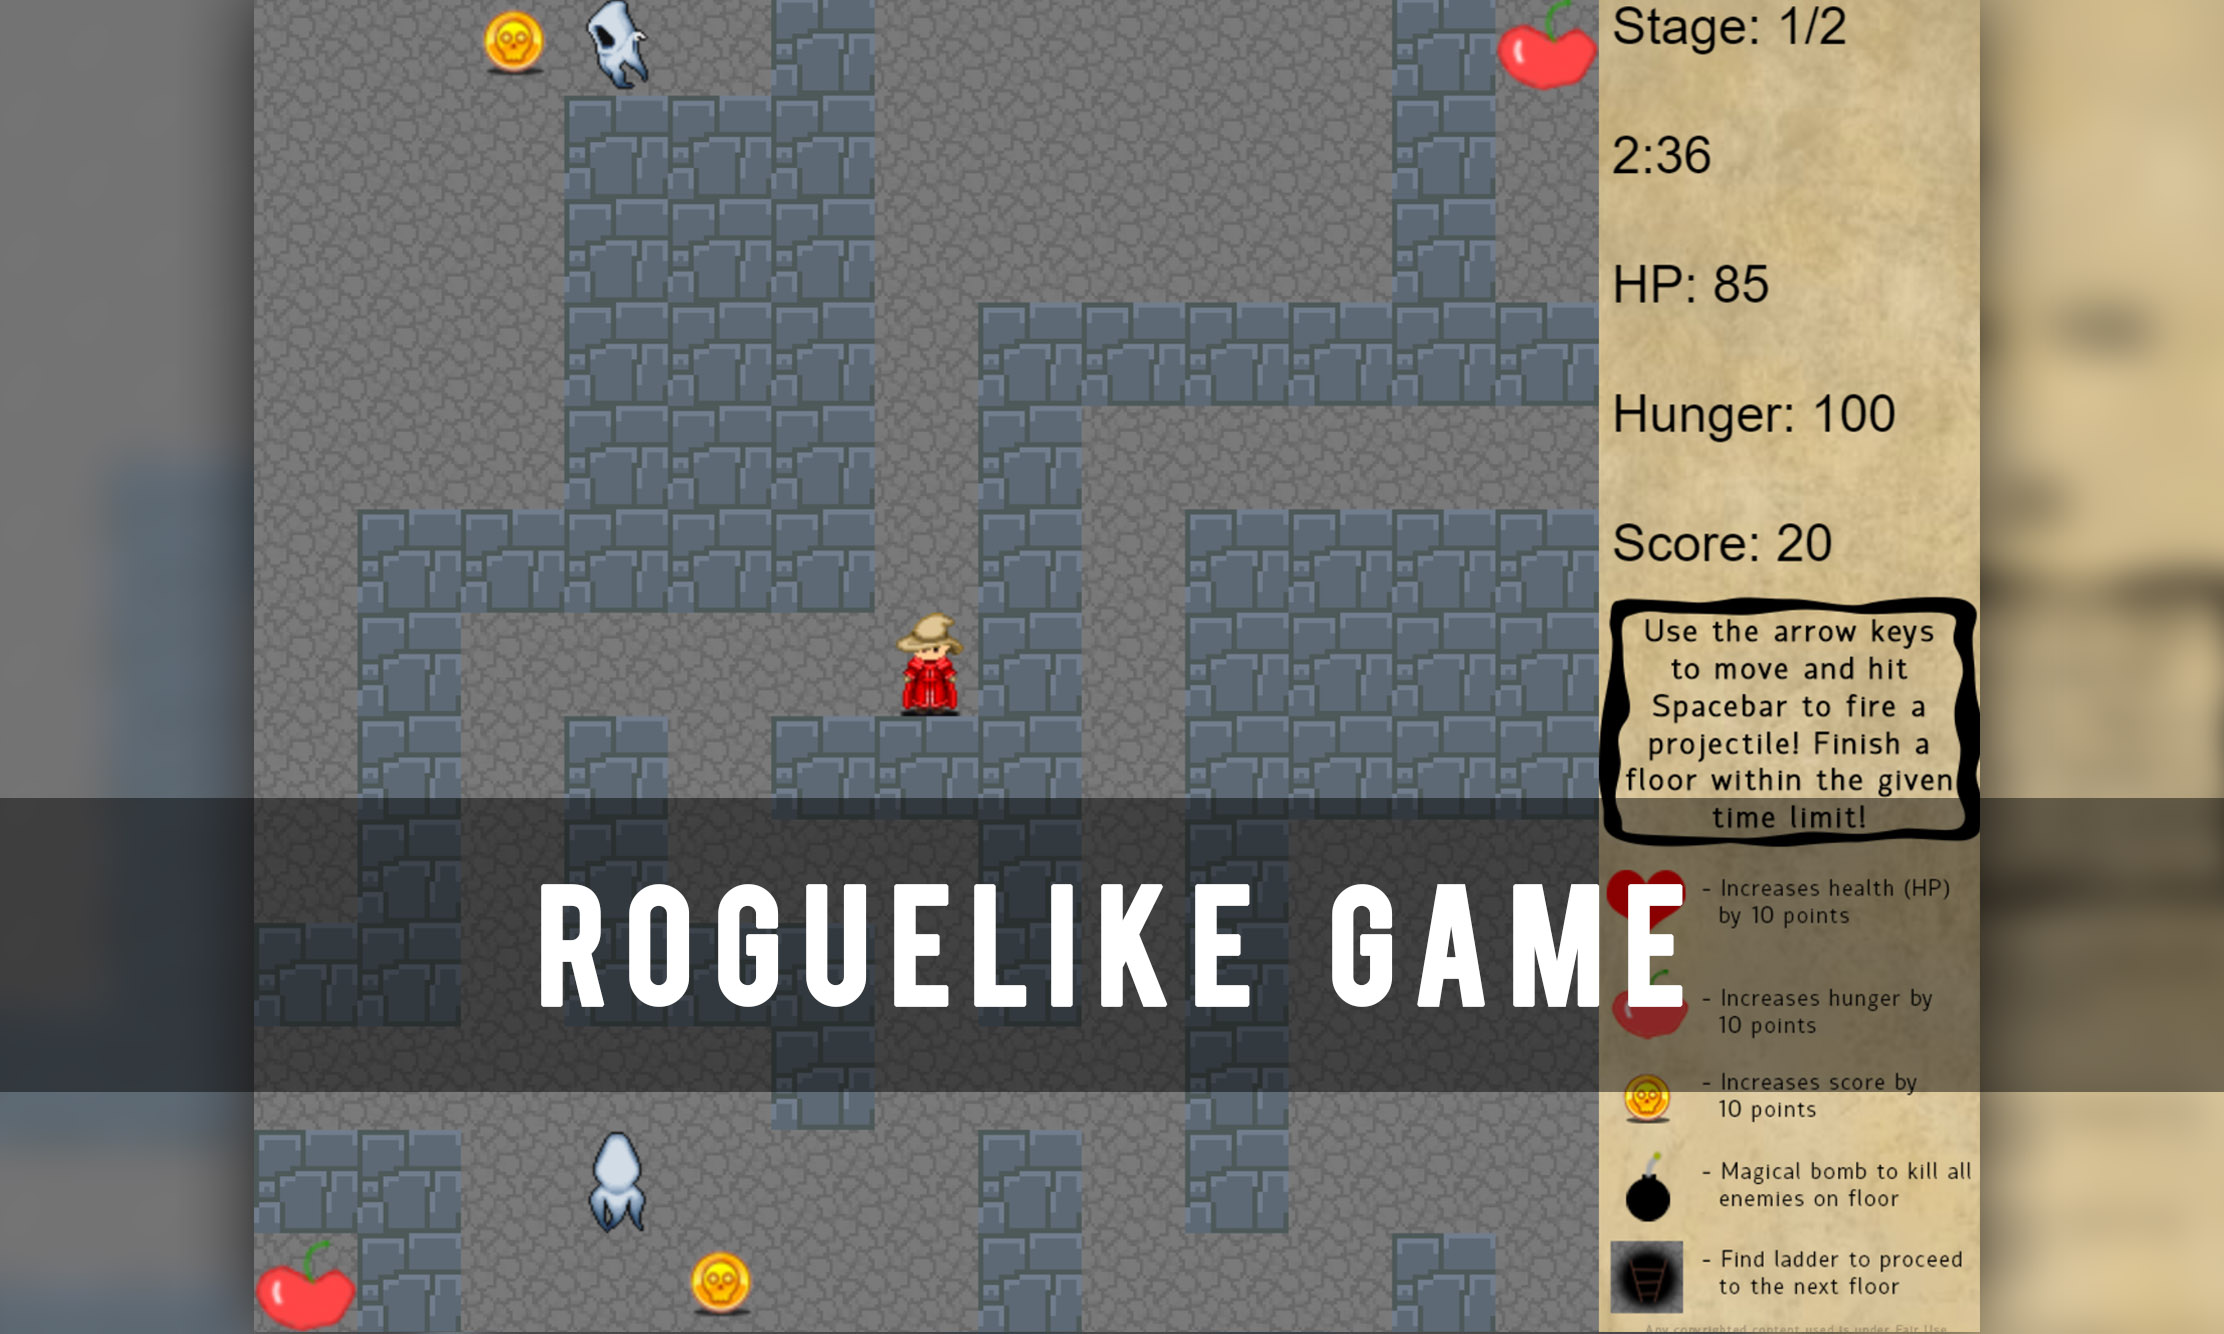
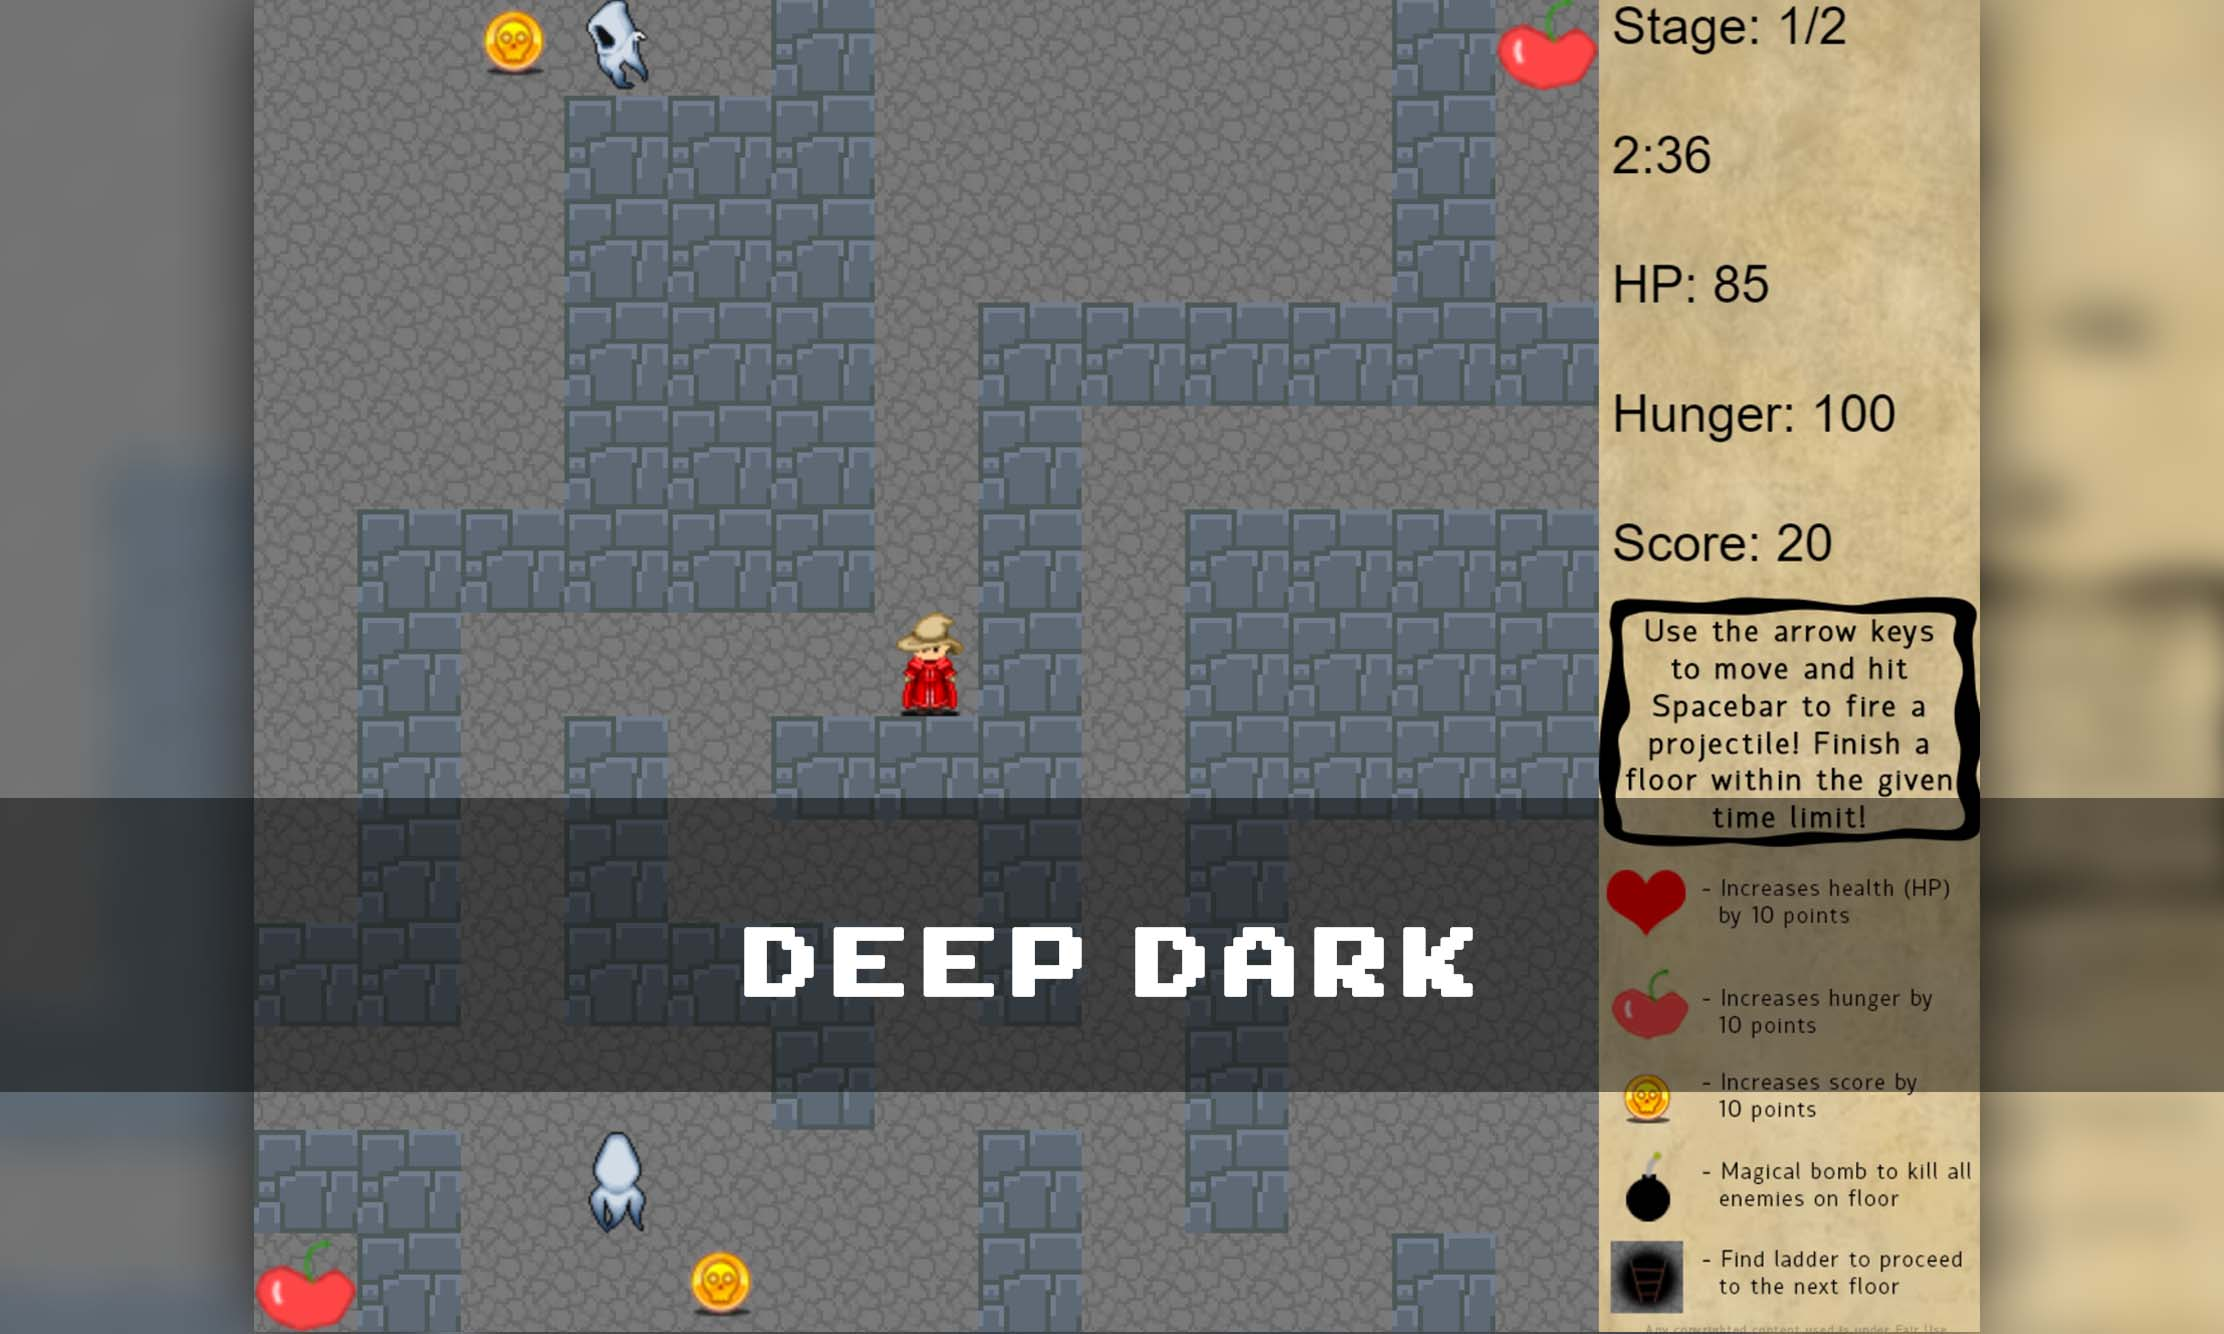
Add new info

Changed region(s): [[0.2172, 0.6454, 0.7756, 0.7684]]

diff --git a/js/modal.js b/js/modal.js
@@ -64,10 +64,15 @@ $(window).on("navigate", function (event, data) {
 
 function display_details(){
   //TITLE ON TOP OF MODAL
-  if(projID == 4){
-    $('#proj-title').html("ROGUELIKE GAME");
+  if(projID == 5){
+    $('#proj-title').html("Snippy");
+    $('#proj-caption').html("- \"He shares his code, she shares her code, EVERYBODY SHARES THEIR CODE\"");
+    $('#proj-text').html("I built this website using the <span class='bolden'>MEAN Stack</span> (MongoDB, Express, Angular, Node) where people can <span class='bolden'>register and share their code</span>. When users log-in, they are greeted with a simple page that lets them either type-in their code or upload a file that contains it. Users are also able to select the syntax for some sweet <span class='bolden'>syntax highlighting</span> and are able to customize what the public can see. Each code snippet can be viewed with a <span class='bolden'>unique 7 character ID</span> that doesn't require any log-in credentials. The database used is MongoDB, so this also eliminates the problems of SQL injection. Future plans would be to hash the passwords and improve security. What started as a result of simple experimentation with the MEAN Stack turned out into something really interesting and worthwhile to do!<br><a href='www.github.com/maestorme/snippy' class = 'link-blue-no-underline'>www.github.com/maestorme/snippy</a>");
+  }
+  else if(projID == 4){
+    $('#proj-title').html("DEEP DARK");
     $('#proj-caption').html("- \"With dungeons far more deadly than the Mines of Moria\"");
-    $('#proj-text').html("This simple roguelike dungeon-crawler game is the result of some experimentation with the <span class='bolden'>Canvas API in HTML5</span>. It provided an interesting dynamic to making games as opposed to other conventional methods. This helped me learn some excellent skills related to both web development as well as game development. The main feature is the <span class='bolden'>procedural generation</span> of the floors of the dungeon wherein each floor is generated on the fly. I used the <span class='bolden'>'Depth-First Search' algorithm</span> implemented with <span class='bolden'>recursive backtracking</span>. This provides a really good replay value to the game! You can try it out for yourself here:<br><a href='www.github.com' class = 'link-blue-no-underline'>www.github.com</a>");
+    $('#proj-text').html("This simple roguelike dungeon-crawler game is the result of some experimentation with the <span class='bolden'>Canvas API in HTML5</span>. It provided an interesting dynamic to making games as opposed to other conventional methods. This helped me learn some excellent skills related to both web development as well as game development. The main feature is the <span class='bolden'>procedural generation</span> of the floors of the dungeon wherein each floor is generated on the fly. I used the <span class='bolden'>'Depth-First Search' algorithm</span> implemented with <span class='bolden'>recursive backtracking</span>. This provides a really good replay value to the game! You can try it out for yourself here:<br><a href='http://karthick.io/deepdark' class = 'link-blue-no-underline'>Play Now!</a><br><a href='www.github.com/maestorme/deepdark' class = 'link-blue-no-underline'>www.github.com/maestorme/deepdark</a>");
   }
   else if(projID == 3){
     $('#proj-title').html("MY MOVIE LIST");
@@ -77,12 +82,12 @@ function display_details(){
   else if(projID == 2){
     $('#proj-title').html("F1 IN SCHOOLS NATIONALS");
     $('#proj-caption').html("- \"Be Different. Be Speed.\"");
-    $('#proj-text').html("F1 in Schools is an <span class='bolden'>international STEM</span> (science, technology, engineering, mathematics) competition, in which groups of 3–6 students have to design and manufacture a miniature \"car\" out of the <span class='bolden'>official F1 Model Block using CAD/CAM design tools.</span> The cars are powered by CO2 cartridges and are timed from the moment they are launched (by pushing a button with a good reaction time) to when they pass the finish line. My team, Traxeleration, <span class='bolden'>placed 2nd in the country after setting a record track time of 1.064s.</span> <span class='bolden'>I was also the graphic designer</span> for the team and oversaw the <span class='bolden'>Pit Display and Design Portfolio</span>, both of which won <span class='bolden'>first place in the country</span>. The team worked for half a year and <span class='bolden'>collected $10,300 through sponsorships from huge multinational companies like Nikon, Indomie and ANTA Sports.</span> We also featured in the <span class='bolden'>national newspaper</span> in the country, Gulf News, and had a radio show. For more information, visit the team's Facebook page or view our Nationals Design Portfolio.<br><a href='https://facebook.com/traxeleration' class = 'link-blue-no-underline'>www.facebook.com/traxeleration</a>");
+    $('#proj-text').html("F1 in Schools is an <span class='bolden'>international STEM</span> (science, technology, engineering, mathematics) competition, in which groups of 3–6 students have to design and manufacture a miniature \"car\" out of the <span class='bolden'>official F1 Model Block using CAD/CAM design tools.</span> The cars are powered by CO2 cartridges and are timed from the moment they are launched (by pushing a button with a good reaction time) to when they pass the finish line. My team, Traxeleration, <span class='bolden'>placed 2nd in the country after setting a record track time of 1.064s.</span> <span class='bolden'>I was also the graphic designer</span> for the team and oversaw the <span class='bolden'>Pit Display and Design Portfolio</span>, both of which won <span class='bolden'>first place in the country</span>. The team worked for half a year and <span class='bolden'>collected $10,300 through sponsorships from huge multinational companies like Nikon, Indomie and ANTA Sports.</span> We also featured in the <span class='bolden'>national newspaper</span> in the country, Gulf News, and had a radio show. For more information, visit the team's Facebook page or view our Nationals Design Portfolio.<br><a href='https://facebook.com/traxeleration' class = 'link-blue-no-underline'>www.facebook.com/traxeleration</a><br><a href='./files/nationals.pdf' class = 'link-blue-no-underline'>View our Nationals Portfolio!</a>");
   }
   else if(projID == 1){
     $('#proj-title').html("F1 IN SCHOOLS REGIONALS");
     $('#proj-caption').html("- \"Be Different. Be Speed.\"");
-    $('#proj-text').html("F1 in Schools is an <span class='bolden'>international STEM</span> (science, technology, engineering, mathematics) competition, in which groups of 3–6 students have to design and manufacture a miniature \"car\" out of the <span class='bolden'>official F1 Model Block using CAD/CAM design tools.</span> The cars are powered by CO2 cartridges and are timed from the moment they are launched (by pushing a button with a good reaction time) to when they pass the finish line. In the Dubai regionals, my team Traxeleration placed 3rd in the state. Being the graphic designer of the team, <span class='bolden'>I designed the Design Portfolio which placed first in the state.</span> We colleced a sum of <span class='bolden'>$4300 through sponsorships from companies like Parisvallay Perfumes and Reliable Automatic Doors Systems.</span> For more information, visit the team's Facebook page or view our Regionals Design Portfolio.<br><a href='https://facebook.com/traxeleration' class = 'link-blue-no-underline'>www.facebook.com/traxeleration</a>");
+    $('#proj-text').html("F1 in Schools is an <span class='bolden'>international STEM</span> (science, technology, engineering, mathematics) competition, in which groups of 3–6 students have to design and manufacture a miniature \"car\" out of the <span class='bolden'>official F1 Model Block using CAD/CAM design tools.</span> The cars are powered by CO2 cartridges and are timed from the moment they are launched (by pushing a button with a good reaction time) to when they pass the finish line. In the Dubai regionals, my team Traxeleration placed 3rd in the state. Being the graphic designer of the team, <span class='bolden'>I designed the Design Portfolio which placed first in the state.</span> We colleced a sum of <span class='bolden'>$4300 through sponsorships from companies like Parisvallay Perfumes and Reliable Automatic Doors Systems.</span> For more information, visit the team's Facebook page or view our Regionals Design Portfolio.<br><a href='https://facebook.com/traxeleration' class = 'link-blue-no-underline'>www.facebook.com/traxeleration</a><br><a href='./files/regionals.pdf' class = 'link-blue-no-underline'>View our Regionals Portfolio!</a>");
   }
 }
 

diff --git a/index.html b/index.html
@@ -54,7 +54,7 @@
       <li id = 'n2' class = 'animated'><a href='#projects'>Projects</a></li>
       <li id = 'n3' class = 'animated'><a href='#skills'>Skills</a></li>
       <li id = 'n4' class = 'animated'><a href='#contact'>Contact</a></li>
-      <li id = 'n5' class = 'animated'><a href='#'>Resume</a></li>
+      <li id = 'n5' class = 'animated'><a href='./files/resume.pdf'>Resume</a></li>
     </ul>
   </div>
 
@@ -108,6 +108,7 @@
   <div class = 'h-underline'></div>
 
   <ul id='proj-boxes'>
+    <li><div id = 'p5' class = 'projbox' style='background-image: url(img/5.jpg)'></div></li>
     <li><div id = 'p4' class = 'projbox' style='background-image: url(img/4.jpg)'></div></li>
     <li><div id = 'p3' class = 'projbox' style='background-image: url(img/3.jpg)'></div></li>
     <li><div id = 'p2' class = 'projbox' style='background-image: url(img/2.jpg)'></div></li>
